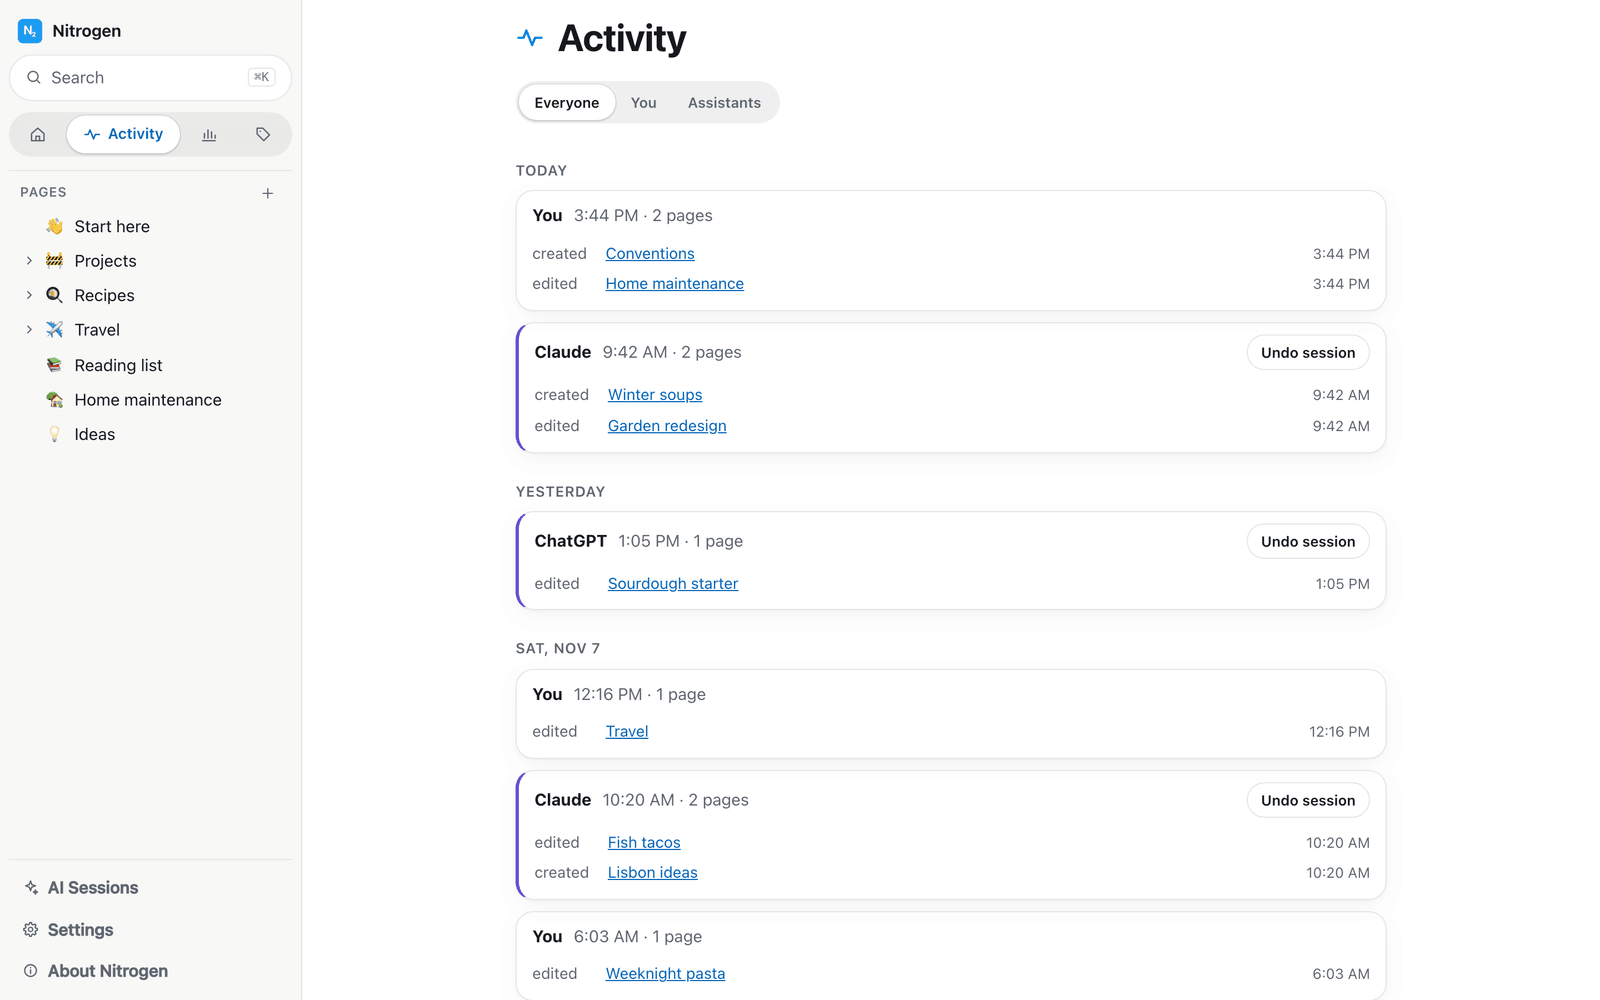
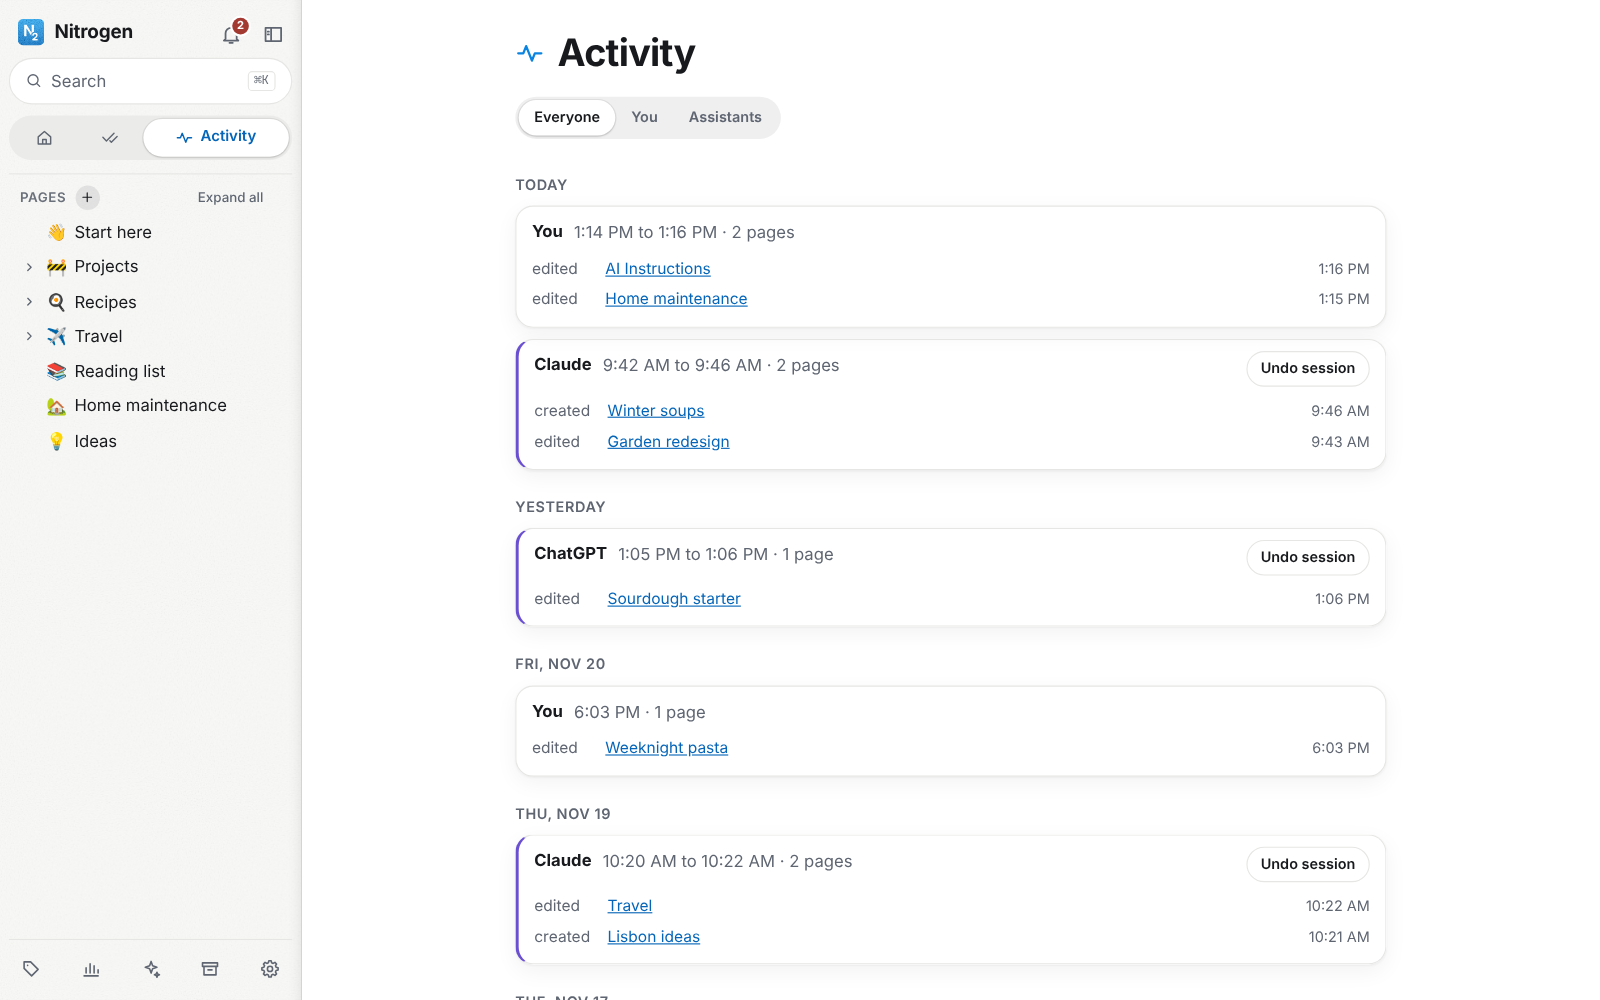
Nitrogen 1.0.18: README screenshots of the current app
Every README image of Nitrogen's own UI is re-rendered from the current app with fictional
demo data: the live editor with its / menu, the page ⋯ menu with Archive, Action Items on
Home and pages, the new logo and the notifications bell. The hero and the AI chat mockup use
the current icon and only tools the MCP server has. Captions and alt text match the pictures,
and the tool list names the archive and AI Instructions tools.

Claude-Session: https://claude.ai/code/session_01PCXyg1odGgu7ewnwgy9TLQ

diff --git a/src/shared/version.ts b/src/shared/version.ts
@@ -1,2 +1,2 @@
 /** The app version, reported by the MCP server. Kept equal to package.json (checked by a test). */
-export const VERSION = '1.0.17';
+export const VERSION = '1.0.18';

diff --git a/README.md b/README.md
@@ -8,7 +8,7 @@ It's for people who keep a lot in their heads, talk it through with AI, and want
 
 [![Deploy to Cloudflare](docs/deploy-to-cloudflare.svg)](https://deploy.workers.cloudflare.com/?url=https://github.com/tyler-class/Nitrogen)
 
-![Nitrogen on a laptop and a phone: a page with its tree, tags and to-dos, and Home’s open items](docs/screenshots/hero.png)
+![Nitrogen on a laptop and a phone: a page with its tree, tags and Action Items, and Home’s Action Items](docs/screenshots/hero.png)
 
 - **A page tree.** Every page can hold subpages. Drag pages in the sidebar to reorder or nest them.
 - **Markdown with wiki links.** `[[Page title]]` links pages and powers “Linked from” backlinks.
@@ -27,7 +27,7 @@ It's for people who keep a lot in their heads, talk it through with AI, and want
   `- question: …` or `- reminder: … due:…` on any page. Add a 24-hour time to be notified then:
   `due:2026-11-20 14:00` (or `due:2026-11-20T14:00`), on your phone's own clock. To-dos are tasks
   you check off (and go overdue); reminders are nudges, scheduled for a day or time, that simply
-  pass. They show as cards, a summary at the top of the page, and on the Open items page, where you
+  pass. They show as cards, a summary at the top of the page, and on the Action Items page, where you
   can check them off, change dates and answer questions; assistants list them with `open_items`.
 - **Sessions.** Every assistant session that changes the wiki is recorded automatically under a
   protected, read-only Sessions section, with the pages it touched and the assistant's own summary.
@@ -49,9 +49,9 @@ It's for people who keep a lot in their heads, talk it through with AI, and want
 
 ![A page with headings, inline to-dos, a timed reminder, a question and a budget table](docs/screenshots/page.png)
 
-**Editing:** markdown with a toolbar for headings, callouts, diagrams, items and images. Type `[[` to link a page.
+**Editing:** every page is always ready to write in, drawn formatted as you type. Type `/` for to-dos, questions, reminders, headings, lists, callouts and more, `@` to link a page, or select text to format it.
 
-![The editor with its toolbar, and page suggestions open after typing two brackets](docs/screenshots/editor.png)
+![A page being edited with the / menu open: To Do, Question and Reminder, then headings and lists](docs/screenshots/editor.png)
 
 **History:** every earlier version with who wrote it. Compare any two, or restore one.
 
@@ -61,9 +61,9 @@ It's for people who keep a lot in their heads, talk it through with AI, and want
 
 ![The bottom of a page with Pages inside, Linked from and Mentioned in, with a Link button](docs/screenshots/connections.png)
 
-**The page menu (⋯):** pin a page to Home, copy its wiki link, or download it as Markdown.
+**The page menu (⋯):** add a subpage, pin a page to Home, copy a link to it, download it as Markdown, or archive it.
 
-![A page's ⋯ menu open with Add subpage, Unpin from Home, Copy wiki link, Download as Markdown and Delete](docs/screenshots/page-menu.png)
+![A page's ⋯ menu open with Add subpage, Unpin from Home, Copy link to page, Download as Markdown, Archive and Delete](docs/screenshots/page-menu.png)
 
 **Search (⌘K):** jump to any page by title or keyword, or press Enter to search by meaning.
 
@@ -93,9 +93,9 @@ It's for people who keep a lot in their heads, talk it through with AI, and want
 
 ![The AI Instructions page with sections for where things go, before writing, tags and style](docs/screenshots/ai-instructions.png)
 
-**On your phone:** Home with open items (overdue and timed ones included), the page tree with its emoji, and a page.
+**On your phone:** Home's Action Items (overdue and timed ones included), the page tree with its emoji, and a page.
 
-![Three phones: Home's open items, the menu with the page tree, and a page with its action items](docs/screenshots/phone.png)
+![Three phones: Home's Action Items, the menu with the page tree, and a page with its Action Items](docs/screenshots/phone.png)
 
 **Dark mode:** follows your device, or pick it in Settings.
 
@@ -265,7 +265,9 @@ Tools: `get_tree`, `read_page`, `search`, `create_page`, `create_pages` (a whole
 (confirmed by title), `list_revisions`, `read_revision`, `restore_revision`, `list_tags`,
 `tag_page`, `log_session` (adds a title and summary to the assistant’s automatic Sessions entry),
 `open_items` (to-dos, questions and reminders across the wiki), `recent_changes` (what changed, grouped by who), `get_started` (the wiki’s state plus
-example requests; assistants call it when you ask what they can do), and for images:
+example requests; assistants call it when you ask what they can do), `archive_page`, `list_archived`,
+`search_archive` and `restore_page` (archived pages), `get_ai_instructions` and
+`update_ai_instructions`, and for images:
 
 - `add_image`: from a public URL or base64 bytes.
 - `request_image_upload`: for an image you have, such as one attached in chat (chat attachments
